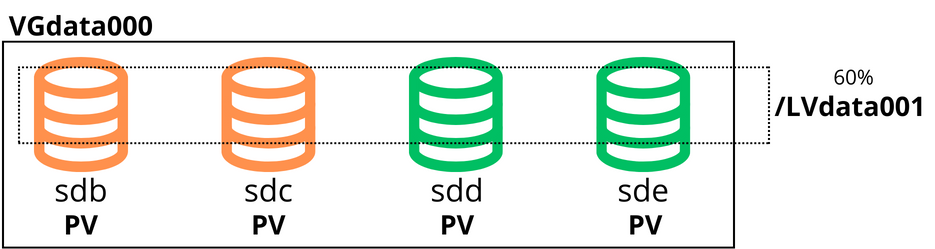
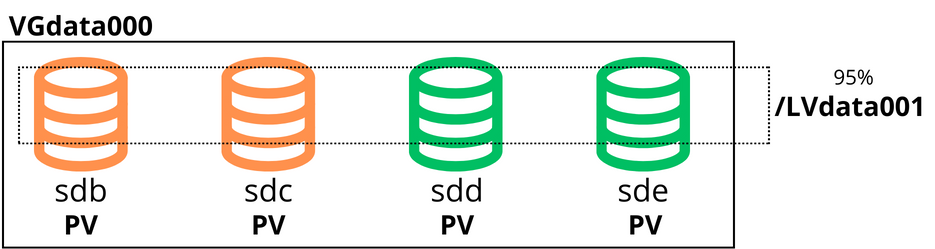
Parctica 4 continuación

diff --git a/practica4.md b/practica4.md
@@ -80,7 +80,7 @@ $mkfs.ext4 /dev/md0
 3. **Volúmenes Lógicos (LVs)**: Unidades de almacenamiento flexibles para usuarios y aplicaciones.
 
 
-Para la práctica crearemos un volúmen lógico que ocupará el 60% del almacenamiento.
+Para la práctica crearemos un volúmen lógico que ocupará el 95% del almacenamiento.
 
 ![LVdata001](images/LVM1.png)
 
@@ -116,4 +116,63 @@ $sudo vgscan
 ```
 Por último creamos el **volúmen lógico** LVdata001:
 ```bash
+$sudo lvcreate -n LVdata001 -l 95%VG VGdata000
 ```
+Para ver:
+```bash
+$lvscan 
+  ACTIVE            '/dev/VGdata000/LVdata001' [<9,48 GiB] inherit
+```
+Por motivos academicos necesito redimensionar el volúmen lógico y añadiré otro. Dejándolos de la siguiente manera:
+
+![Esquema LVM2](images/LVM2.png)
+
+```bash
+# Lo redimensionamos:
+$sudo lvresize -l 60%VG /dev/VGdata000/LVdata001
+Size of logical volume VGdata000/LVdata001 changed from 1,00 GiB (256 extents) to <5,99 GiB (1533 extents).
+Logical volume VGdata000/LVdata001 successfully resized.
+
+# Comprobamos:
+$lvscan 
+  ACTIVE            '/dev/VGdata000/LVdata001' [<5,99 GiB] inherit
+
+# Para crear el segundo volúmen lógico:
+$sudo lvcreate -n LVdata002 -l 40%VG VGdata000
+  Logical volume "LVdata002" created.
+
+# Comprobamos que los dos estén correctamente:
+$lvscan 
+  ACTIVE            '/dev/VGdata000/LVdata001' [<5,99 GiB] inherit
+  ACTIVE            '/dev/VGdata000/LVdata002' [<3,99 GiB] inherit
+
+```
+
+Ahora montaremos el primer volúmen y crearemos contenido:
+
+```bash
+# Para darle formato:
+$sudo mkfs.ext4 /dev/VGdata000/LVdata001
+
+# Carpeta donde lo montaremos:
+$sudo mkdir /mnt/LVdata001
+$cd /mnt/LVdata001
+
+# Montamos:
+$sudo mount /dev/VGdata000/LVdata001 /mnt/LVdata001
+
+# Para crear contenido:
+$dd if=/dev/zero of=/mnt/LVdata001/archivo1.img bs=1M count=1000
+```
+Ahora queremos comprobar que si un disco falla, uno de los de repuesto entra en acción, el contenido de estos archivos no se verá afectado, para ello haremos lo siguiente:
+
+```bash
+# Creamos la función de resumen de la carpeta antes creada, donde hemos montado el volúmen lógico, para después poder comprobar su integridad:
+
+$md5sum /mnt/LVdata001/archivo1.img > checksumLV1.txt
+$ls
+archivo1.img  checksumLV1.txt  lost+found
+
+```
+
+
